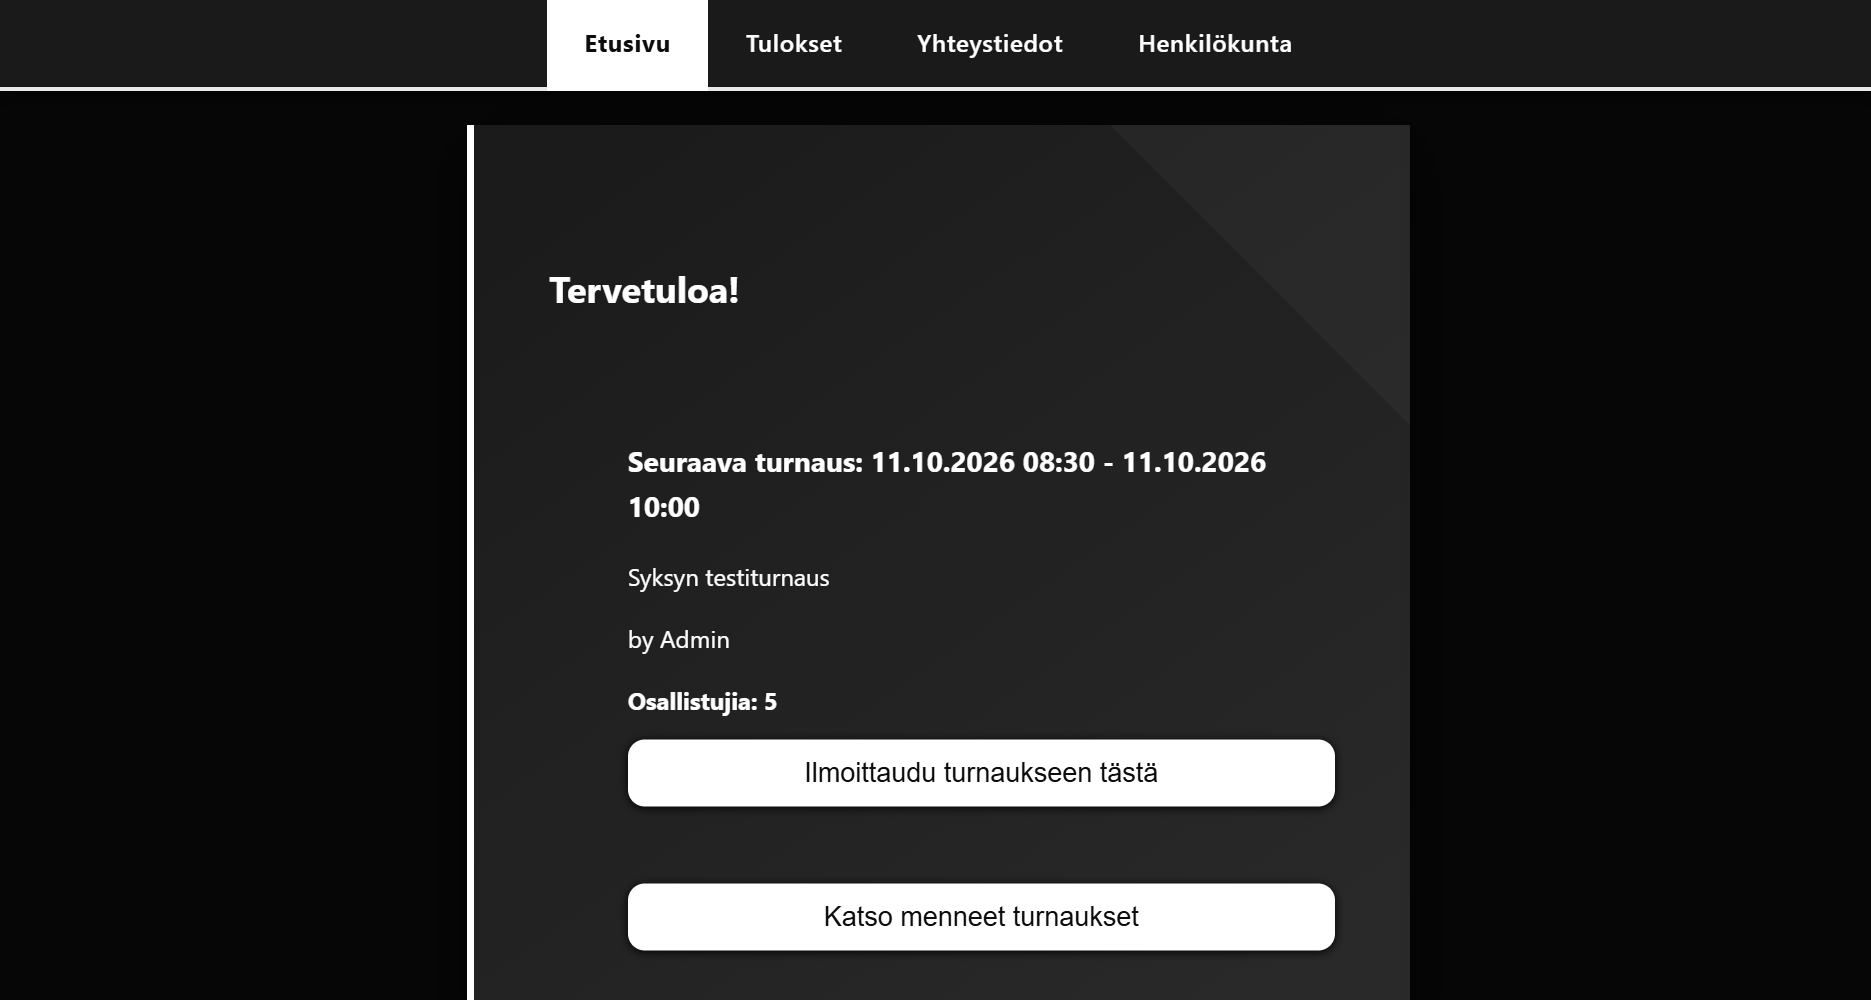
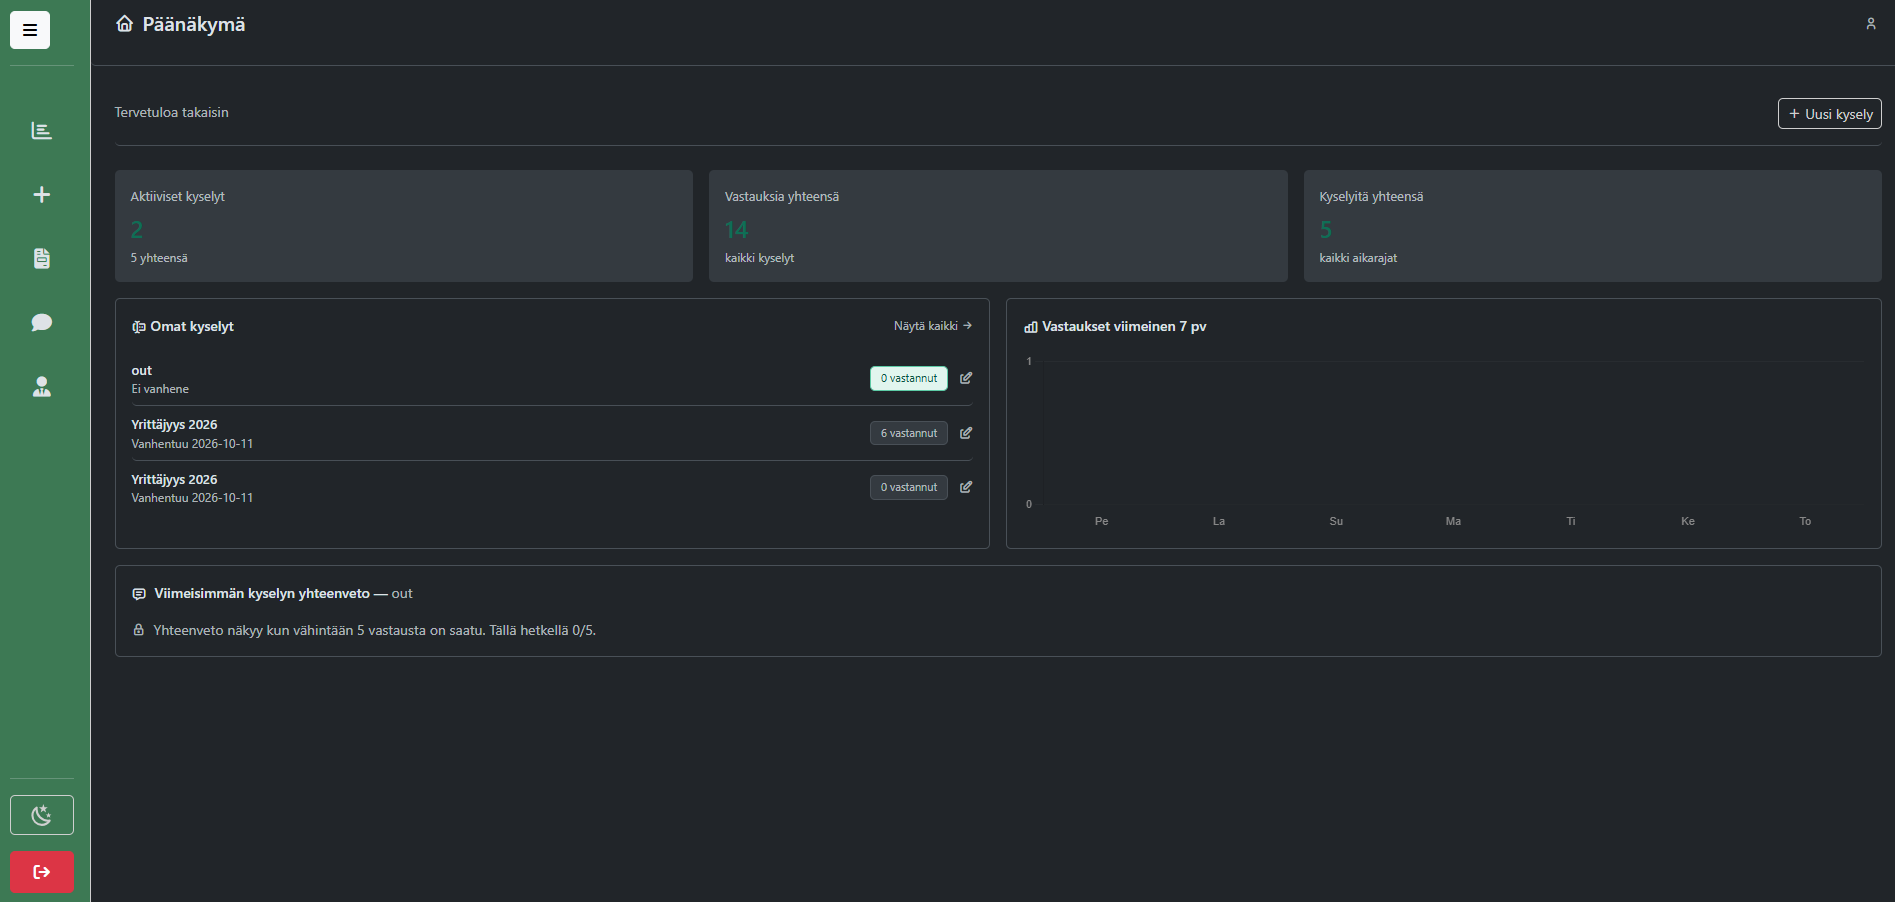
muutoksia

diff --git a/index.html b/index.html
@@ -85,8 +85,7 @@
         <div class="container text-center">
             <img src="images/profiili.jpg" alt="Your Photo" class="circle-image">
             <h2>About Me</h2>
-            <p class="lead">I am a beginner software developer student in Tredu. I'm learning HTML, CSS, PHP and
-                JavaScript.</p>
+            <p class="lead">I am a beginner software developer student in Tredu. I'm learning HTML, CSS, PHP, JavaScript, React and C#.</p>
         </div>
     </section>
     <section id="projects" class="py-5 bg-light">
@@ -95,22 +94,22 @@
             <div class="row g-4">
                 <div class="col-md-4">
                     <div class="card project-card">
-                        <a href="https://sprint2.tiimi25b.treok.io">
+                        <a href="https://palautepalvelu.tiimi26b.treok.io">
                             <img src="/images/guva1.png" class="card-img-top" alt="Project 1">
                             <div class="card-body">
-                                <h5 class="card-title">Project: Chess Tournament Registration</h5>
-                                <p class="card-text">Group project where you can sign up for a chess tournament. Admin can manage tournamnets.</p>
+                                <h5 class="card-title">Group project: Feedback app for teachers</h5>
+                                <p class="card-text">Used technologies: PHP, HTML, CSS, JavaScript</p>
                             </div>
                     </div>
                     </a>
                 </div>
                 <div class="col-md-4">
                     <div class="card project-card">
-                        <a href="https://pietilajoel.github.io/fanikauppa/">
+                        <a href="https://play.unity.com/en/games/48d1dd8d-08a6-4274-a56e-86e114b3cbb5/celestial-beings">
                             <img src="/images/guva4.png" class="card-img-top" alt="Project 2">
                             <div class="card-body">
-                                <h5 class="card-title">Project: Fanshop</h5>
-                                <p class="card-text">Users can add products to cart and make an order.</p>
+                                <h5 class="card-title">Project: Space shooter</h5>
+                                <p class="card-text">Used technologies: Unity</p>
                             </div>
                     </div>
                     </a>
@@ -121,7 +120,7 @@
                             <img src="/images/guva3.png" class="card-img-top" alt="Project 3">
                             <div class="card-body">
                                 <h5 class="card-title">Project: Apartment renting</h5>
-                                <p class="card-text">A small group project for apartment renting. We didn't have enough time to finish it which can be seen..</p>
+                                <p class="card-text">Used technologies: PHP, HTML, CSS</p>
                             </div>
                     </div>
                     </a>
@@ -139,7 +138,7 @@
     </section>
     <footer>
         <div class="container">
-            <p>&copy; 2025 Joel Pietilä | All Rights Reserved</p>
+            <p>&copy; 2026 Joel Pietilä | All Rights Reserved</p>
         </div>
     </footer>
     <script src="https://cdn.jsdelivr.net/npm/bootstrap@5.3.0/dist/js/bootstrap.bundle.min.js"></script>
